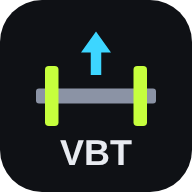
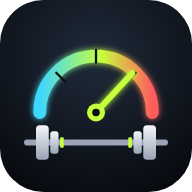
Nuovo nome Osteo_vbt e nuova icona
Claude-Session: https://claude.ai/code/session_01MXnj3Q3wWX2berHmeRCqbn

diff --git a/index.html b/index.html
@@ -3,7 +3,7 @@
 <head>
 <meta charset="utf-8">
 <meta name="viewport" content="width=device-width, initial-scale=1">
-<title>VBT Calc</title>
+<title>Osteo_vbt</title>
 <meta name="theme-color" content="#0f1115">
 <meta name="apple-mobile-web-app-capable" content="yes">
 <meta name="mobile-web-app-capable" content="yes">
@@ -75,7 +75,7 @@ details{margin-top:8px}summary{cursor:pointer;color:var(--acc2);font-size:13px}
 </head>
 <body>
 <header><div class="hwrap">
-  <h1><b>VBT</b> Calc</h1>
+  <h1 style="display:flex;align-items:center;gap:10px"><img src="icon.svg" alt="" width="30" height="30" style="border-radius:8px">Osteo<b>_vbt</b></h1>
   <nav id="nav">
     <button data-t="live">● Live</button>
     <button data-t="profilo" class="on">Profilo L-V</button>
@@ -486,13 +486,13 @@ function stopAll(){L.running=false;if(L.stream){L.stream.getTracks().forEach(t=>
 $('#stopBtn').onclick=()=>{stopAll();$('#camMsg').textContent='Fermato.'};
 $('#camBtn').onclick=async()=>{
   stopAll();
-  if(!navigator.mediaDevices||!navigator.mediaDevices.getUserMedia){$('#camMsg').innerHTML='<span class="pill bd">Fotocamera non disponibile</span> Questo browser o questa pagina non può usare la fotocamera. Apri il file <b>VBT Calc</b> fuori da Claude oppure analizza un video.';return}
+  if(!navigator.mediaDevices||!navigator.mediaDevices.getUserMedia){$('#camMsg').innerHTML='<span class="pill bd">Fotocamera non disponibile</span> Questo browser o questa pagina non può usare la fotocamera. Apri il file <b>Osteo_vbt</b> fuori da Claude oppure analizza un video.';return}
   try{
     const st=await navigator.mediaDevices.getUserMedia({audio:false,video:{facingMode:{ideal:'environment'},frameRate:{ideal:60},width:{ideal:1280},height:{ideal:720}}});
     L.stream=st;lv.srcObject=st;lv.removeAttribute('src');L.src='cam';await lv.play();
     const s=st.getVideoTracks()[0].getSettings();$('#camMsg').innerHTML=`<span class="pill ok">Fotocamera attiva</span> ${s.width||''}×${s.height||''} @ ${s.frameRate?Math.round(s.frameRate):'?'} fps`;
     startLoop();
-  }catch(e){$('#camMsg').innerHTML='<span class="pill bd">Fotocamera bloccata</span> Dentro la pagina di Claude la fotocamera non è consentita. Usa il file <b>VBT Calc</b> aperto nel browser oppure carica un video qui sopra.';}
+  }catch(e){$('#camMsg').innerHTML='<span class="pill bd">Fotocamera bloccata</span> Dentro la pagina di Claude la fotocamera non è consentita. Usa il file <b>Osteo_vbt</b> aperto nel browser oppure carica un video qui sopra.';}
 };
 $('#lfile').onchange=e=>{const fl=e.target.files[0];if(!fl)return;stopAll();lv.srcObject=null;lv.src=URL.createObjectURL(fl);L.src='file';lv.playbackRate=+$('#lrate').value;
   lv.onloadeddata=()=>{lv.currentTime=0;$('#camMsg').innerHTML='<span class="pill ok">Video caricato</span> Tocca il marker e calibra, poi premi ▶.';startLoop(true)}};

diff --git a/sw.js b/sw.js
@@ -1,4 +1,4 @@
-const C='vbt-v2',F=['./','index.html','manifest.webmanifest','icon.svg','icon-192.png','icon-512.png'];
+const C='vbt-v3',F=['./','index.html','manifest.webmanifest','icon.svg','icon-192.png','icon-512.png'];
 self.addEventListener('install',e=>{e.waitUntil(caches.open(C).then(c=>c.addAll(F)));self.skipWaiting()});
 self.addEventListener('activate',e=>{e.waitUntil(caches.keys().then(k=>Promise.all(k.filter(x=>x!==C).map(x=>caches.delete(x)))));self.clients.claim()});
 self.addEventListener('fetch',e=>{if(e.request.method!=='GET')return;e.respondWith(fetch(e.request).then(r=>{const cp=r.clone();caches.open(C).then(c=>c.put(e.request,cp));return r}).catch(()=>caches.match(e.request,{ignoreSearch:true})))});

diff --git a/README.md b/README.md
@@ -1,4 +1,4 @@
-# VBT Calc
+# Osteo_vbt
 
 Web app per il **velocity based training**, da usare in palestra su telefono e PC.
 
